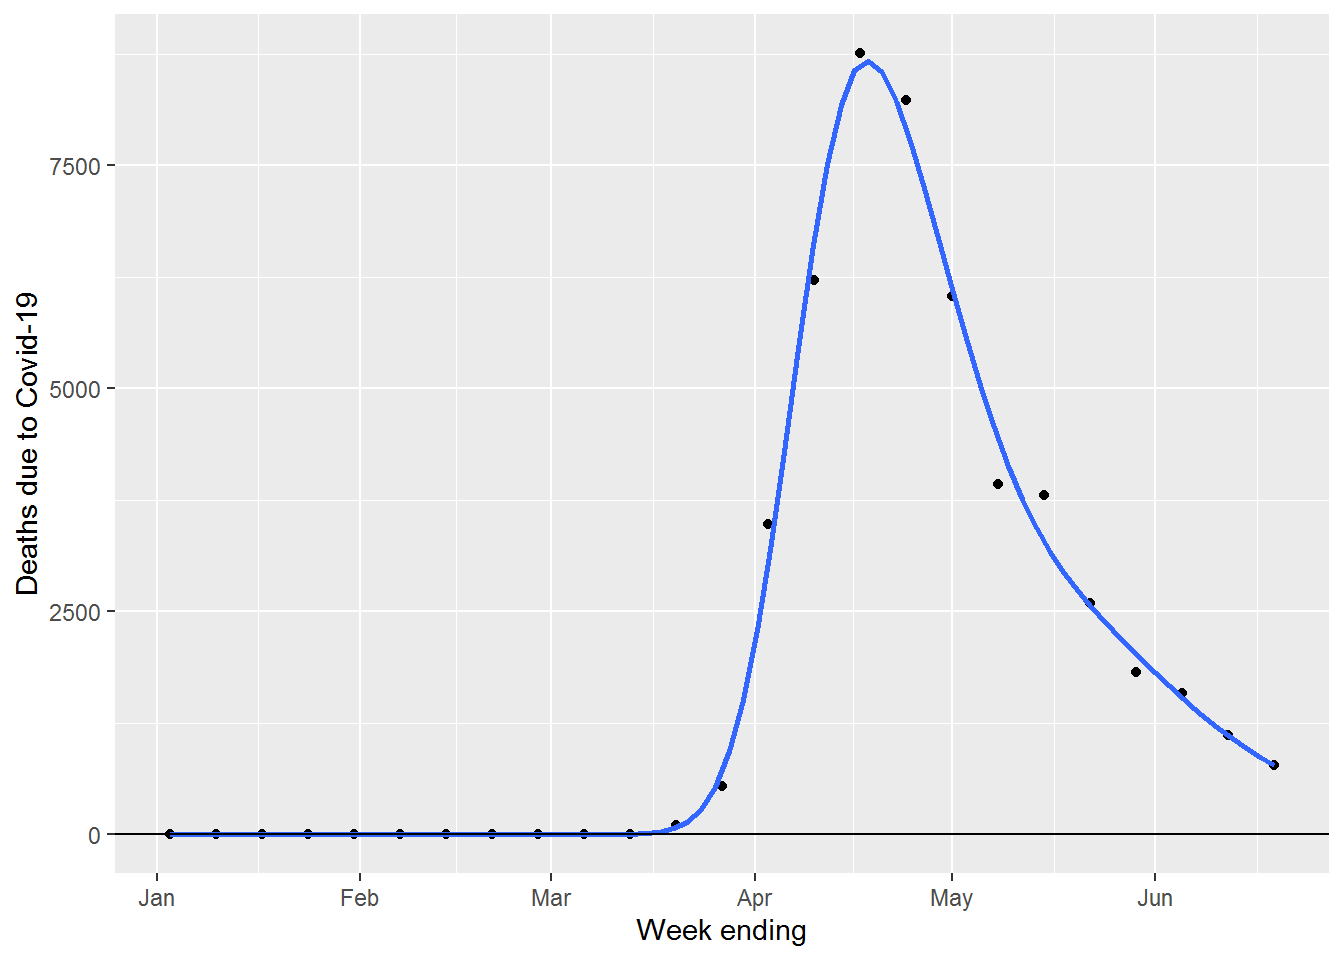
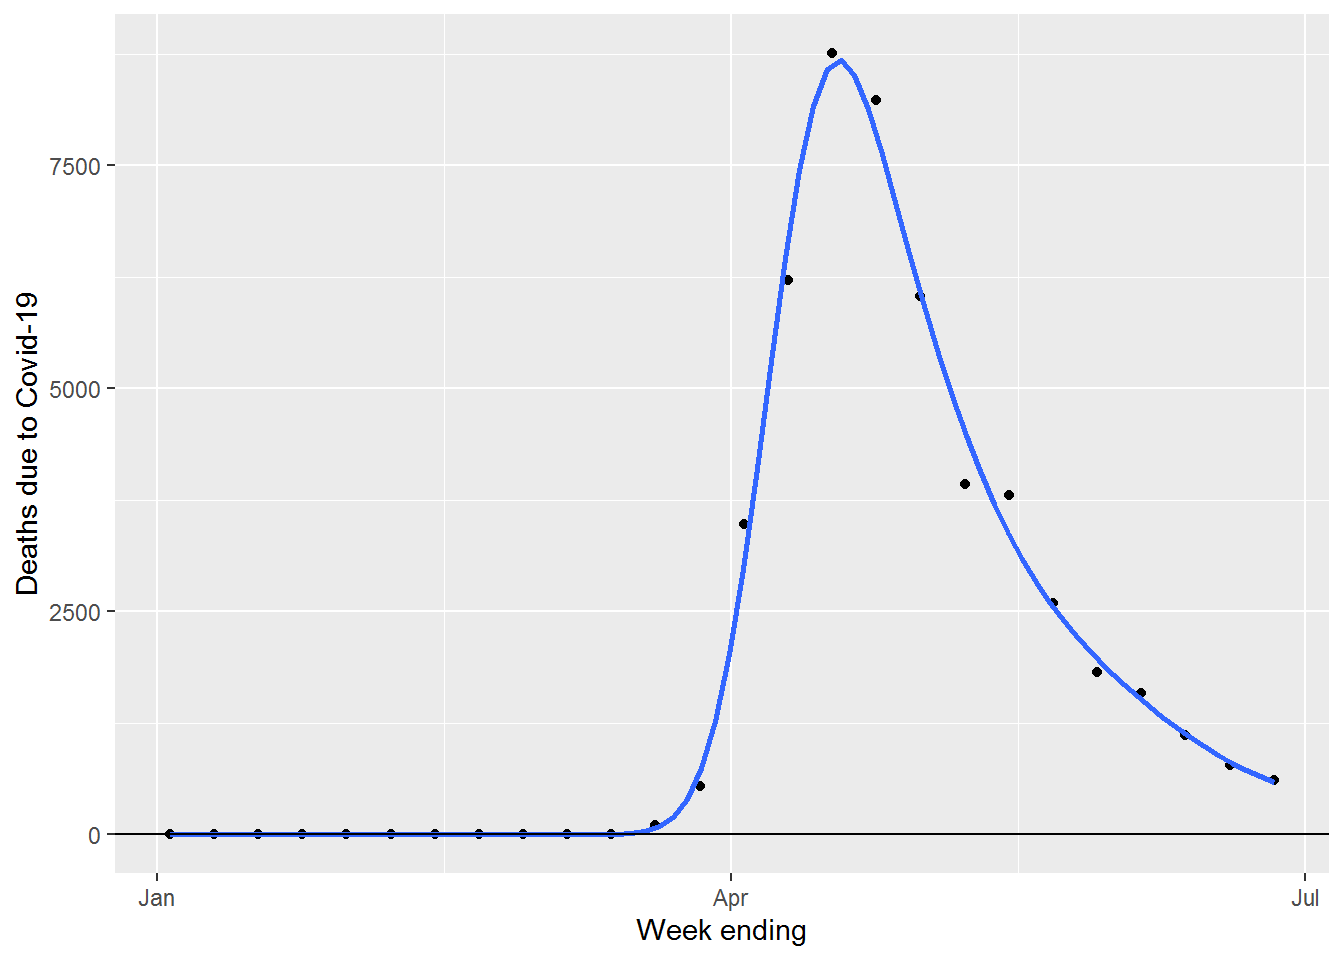
Re-ran ONS analysis

diff --git a/index.html b/index.html
@@ -13,7 +13,7 @@
 
 <meta name="date" content="2020-07-09" />
 
-<title>Using ggplot2 to visualise Covid-19 deaths the UK</title>
+<title>Using ggplot2 to visualise Covid-19 deaths in the UK</title>
 
 <script src="covid_files/jquery-1.11.3/jquery.min.js"></script>
 <meta name="viewport" content="width=device-width, initial-scale=1" />
@@ -255,7 +255,7 @@ div.tocify {
 
 
 
-<h1 class="title toc-ignore">Using ggplot2 to visualise Covid-19 deaths the UK</h1>
+<h1 class="title toc-ignore">Using ggplot2 to visualise Covid-19 deaths in the UK</h1>
 <h4 class="author">Andi Fugard (<a href="mailto:almost@gmail.com" class="email">almost@gmail.com</a>, @<a href="https://twitter.com/InductiveStep">inductivestep</a>)</h4>
 <h4 class="date">09 July 2020</h4>
 
@@ -533,10 +533,10 @@ death_week$Change           &lt;- with(death_week,
 <h3>Setup</h3>
 <pre class="r"><code>library(readxl)</code></pre>
 <p>The <code>read_csv</code> command (used above) can read data from the web. This is not currently (30 June 2020) the case for <code>read_xlsx</code>; the command below gives the error that the path “does not exist”.</p>
-<pre class="r"><code>ons_dat &lt;- read_xlsx(&quot;https://www.ons.gov.uk/visualisations/dvc875a/fig1/datadownload.xlsx&quot;)</code></pre>
+<pre class="r"><code>ons_dat &lt;- read_xlsx(&quot;https://www.ons.gov.uk/visualisations/dvc891/fig1/datadownload.xlsx&quot;)</code></pre>
 <p>The solution is to download the file first, which can be done within R, then read from there. The “mode” option is needed to download the file correctly (xlsx files are zip files, so they must be downloaded as binary files).</p>
 <pre class="r"><code>localExcelTemp &lt;- tempfile(fileext = &quot;.xlsx&quot;)
-download.file(&quot;https://www.ons.gov.uk/visualisations/dvc875a/fig1/datadownload.xlsx&quot;,
+download.file(&quot;https://www.ons.gov.uk/visualisations/dvc891/fig1/datadownload.xlsx&quot;,
               destfile = localExcelTemp,
               mode = &quot;wb&quot;)</code></pre>
 <p>This reads the file, skipping over the preamble and removing the footer.</p>
@@ -556,7 +556,7 @@ names(ons_dat)</code></pre>
 </div>
 <div id="fix-the-dates-1" class="section level3">
 <h3>Fix the dates</h3>
-<p>These data give the number of deaths by week for England and Wales for weeks ending 3 Jan 2020 to 19 June 2020.</p>
+<p>These data give the number of deaths by week for England and Wales for weeks ending 3 Jan 2020 to 26 June 2020.</p>
 <p>The first column gives week numbers. Let’s generate some proper dates:</p>
 <pre class="r"><code>startDate &lt;- as.Date(&quot;2020-01-03&quot;)
 numDates  &lt;- nrow(ons_dat)
@@ -579,14 +579,6 @@ COVID-19
 </tr>
 </thead>
 <tbody>
-<tr>
-<td style="text-align:left;">
-2020-05-22
-</td>
-<td style="text-align:right;">
-2589
-</td>
-</tr>
 <tr>
 <td style="text-align:left;">
 2020-05-29
@@ -617,6 +609,14 @@ COVID-19
 </td>
 <td style="text-align:right;">
 783
+</td>
+</tr>
+<tr>
+<td style="text-align:left;">
+2020-06-26
+</td>
+<td style="text-align:right;">
+606
 </td>
 </tr>
 </tbody>

diff --git a/README.md b/README.md
@@ -1,4 +1,4 @@
-Using ggplot2 to visualise Covid-19 deaths the UK
+Using ggplot2 to visualise Covid-19 deaths in the UK
 ================
 
 This R code shows how to use ggplot2, with the help of some other
